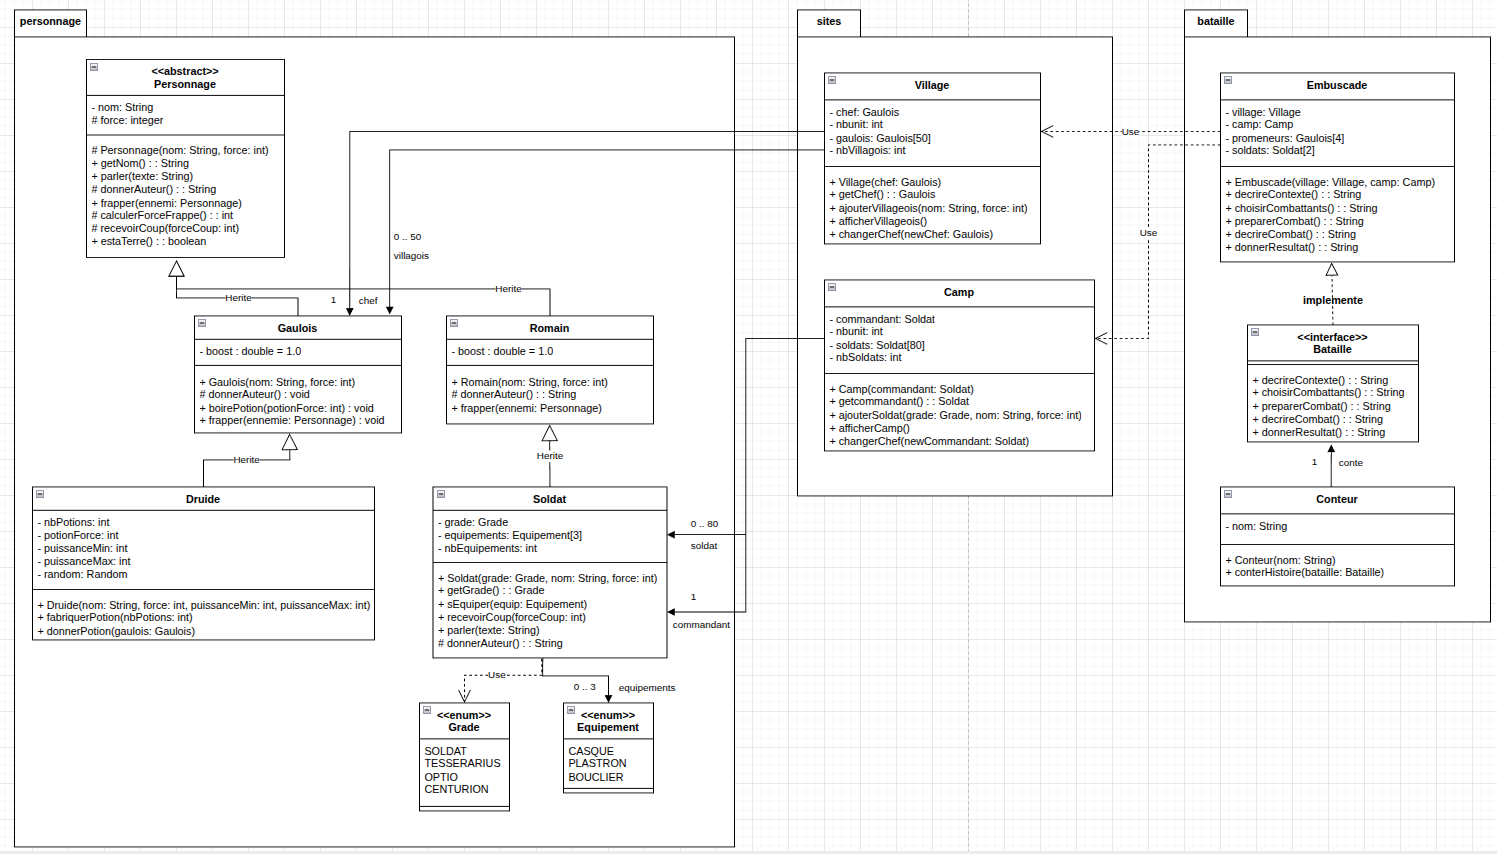
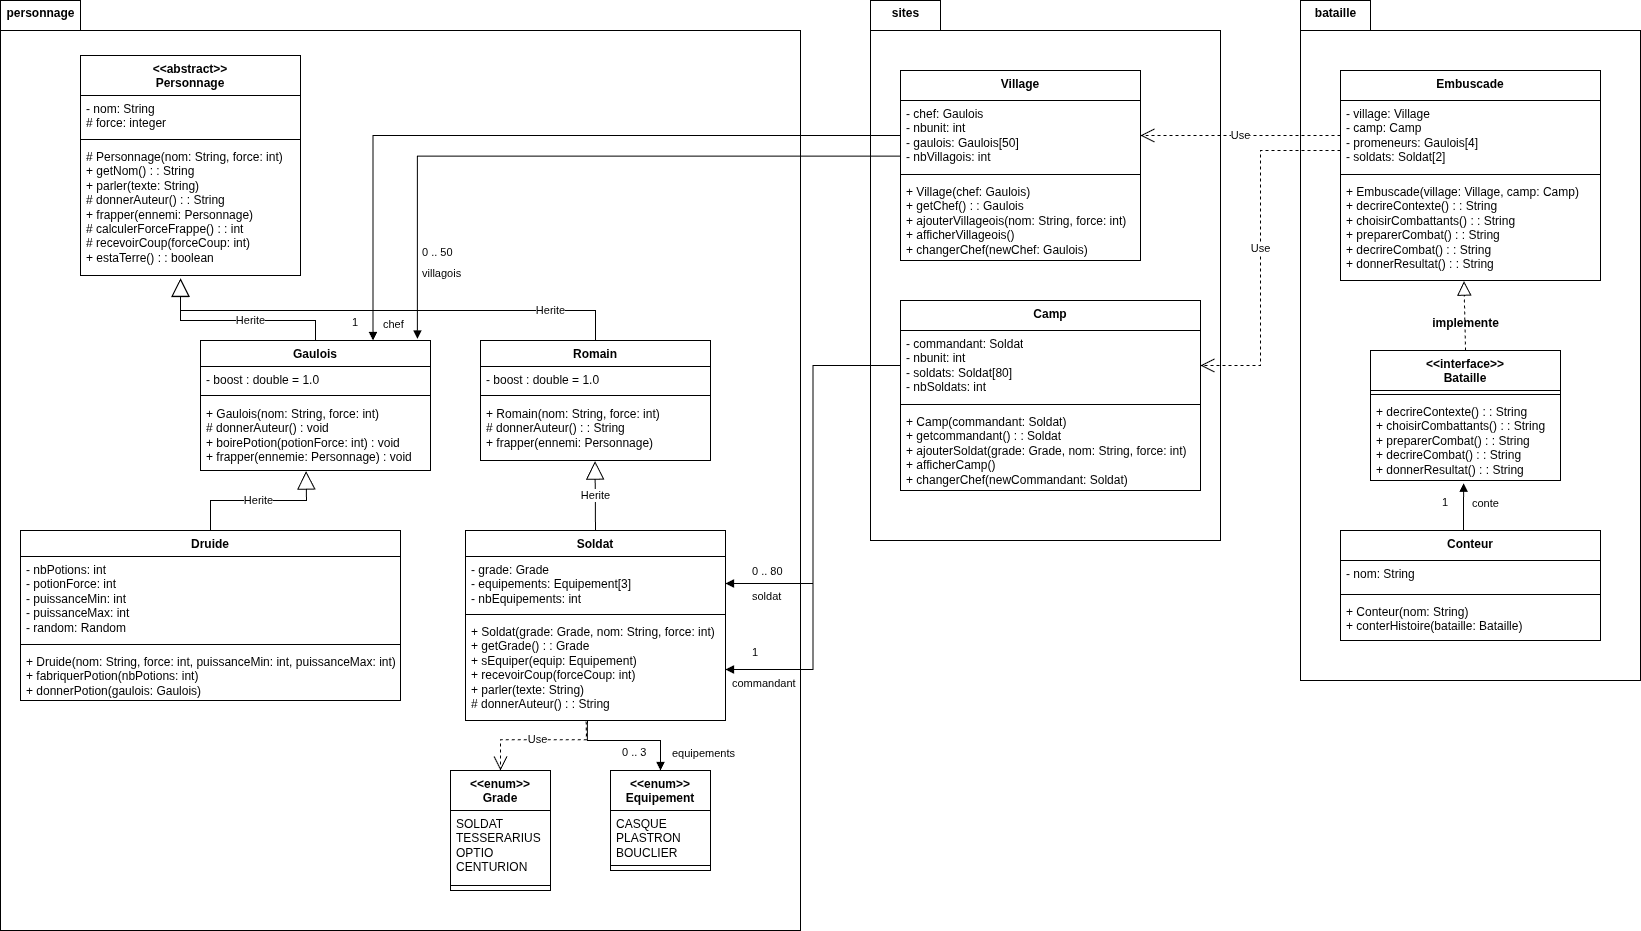
ajout du package bataille et des class bataille, conteur et embuscade

diff --git a/src/bataille/Embuscade.java b/src/bataille/Embuscade.java
@@ -1,0 +1,36 @@
+package bataille;
+
+import sites.Camp;
+import sites.Village;
+
+public class Embuscade implements Bataille{
+	private Village village;
+	private Camp camp;
+	private Gaulois[] promeneurs = new Gaulois[4];
+	private Soldat[] soldat = new Soldat[2];
+	
+	@Override
+	public String decrireContexte() {
+		
+	}
+	
+	@Override
+	public String choisirCombattants() {
+		
+	}
+	
+	@Override
+	public String preparerCombat() {
+		
+	}
+	
+	@Override
+	public String decrireCombat() {
+		
+	}
+	
+	@Override
+	public String donnerResultat() {
+		
+	}
+}

diff --git a/src/bataille/Conteur.java b/src/bataille/Conteur.java
@@ -1,0 +1,17 @@
+package bataille;
+
+
+import bataille.Bataille;
+
+public class Conteur {
+	private String nom;
+	
+	public Conteur(String nom) {
+		this.nom = nom;
+	}
+	public void conterHistoire(Bataille bataille) {
+		System.out.println("je m'apelle " + nom + " et je vais vous conter une histoire");
+	}
+	
+
+}

diff --git a/src/bataille/Bataille.java b/src/bataille/Bataille.java
@@ -1,0 +1,10 @@
+package bataille;
+
+
+public interface Bataille {
+	public String decrireContexte();
+	public String choisirCombattants();
+	public String preparerCombat();
+	public String decrireCombat();
+	public String donnerResultat();
+}
